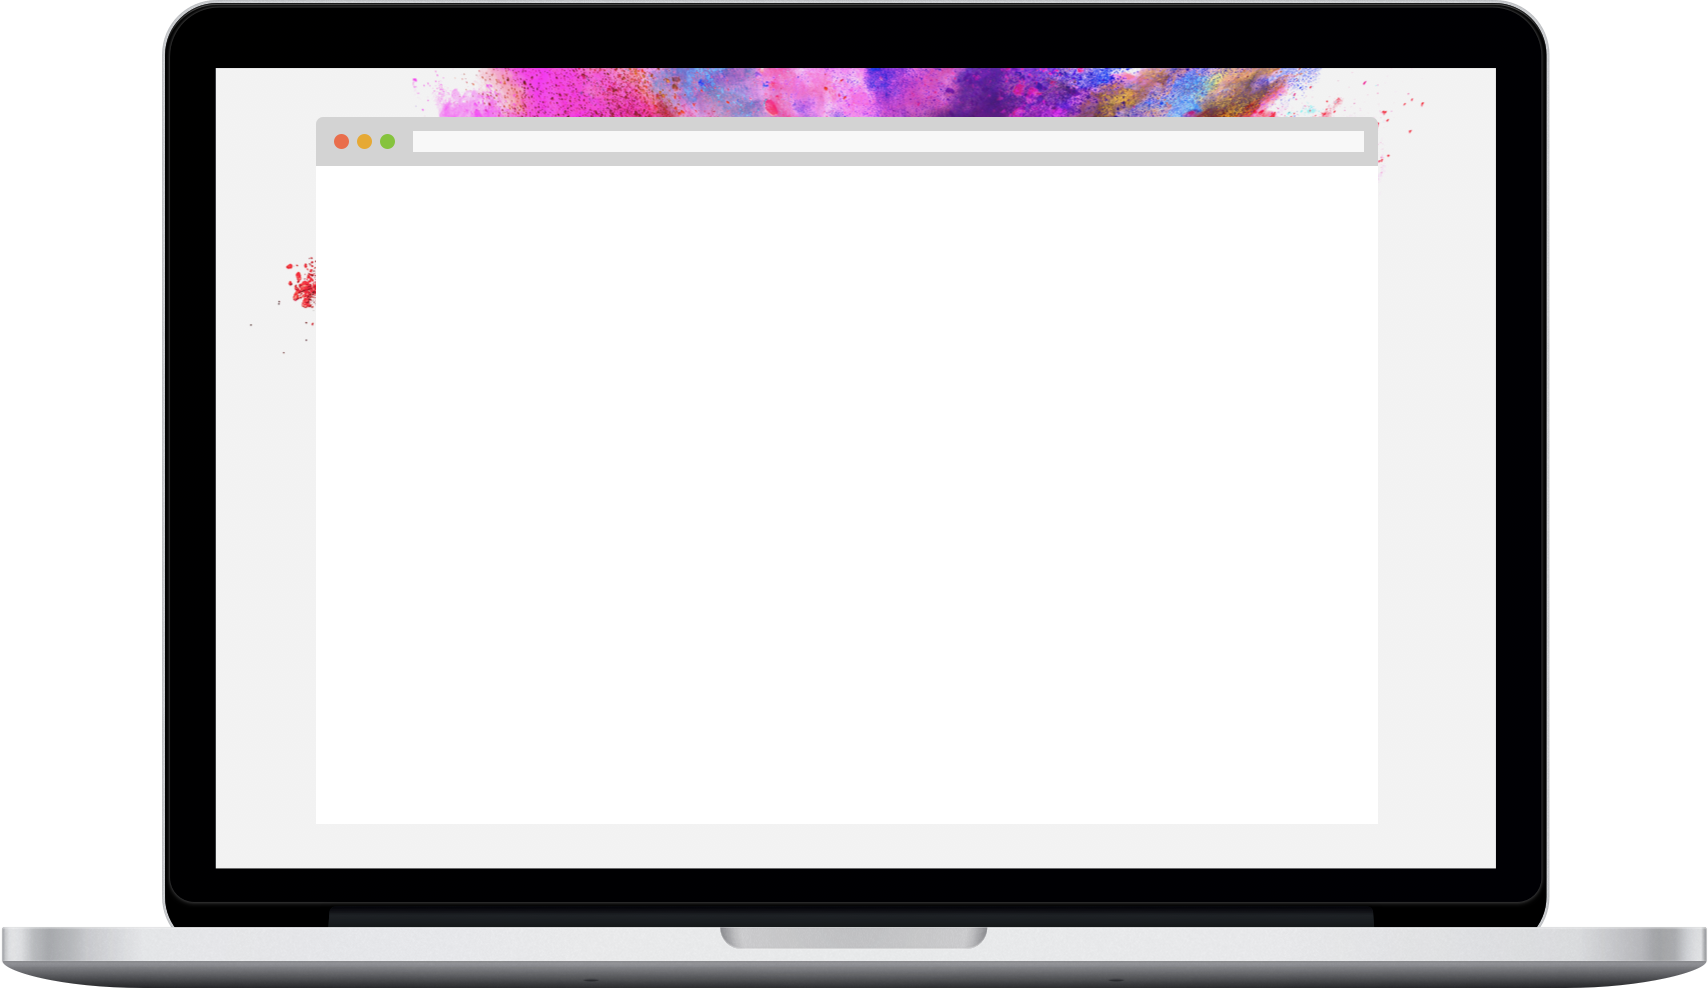
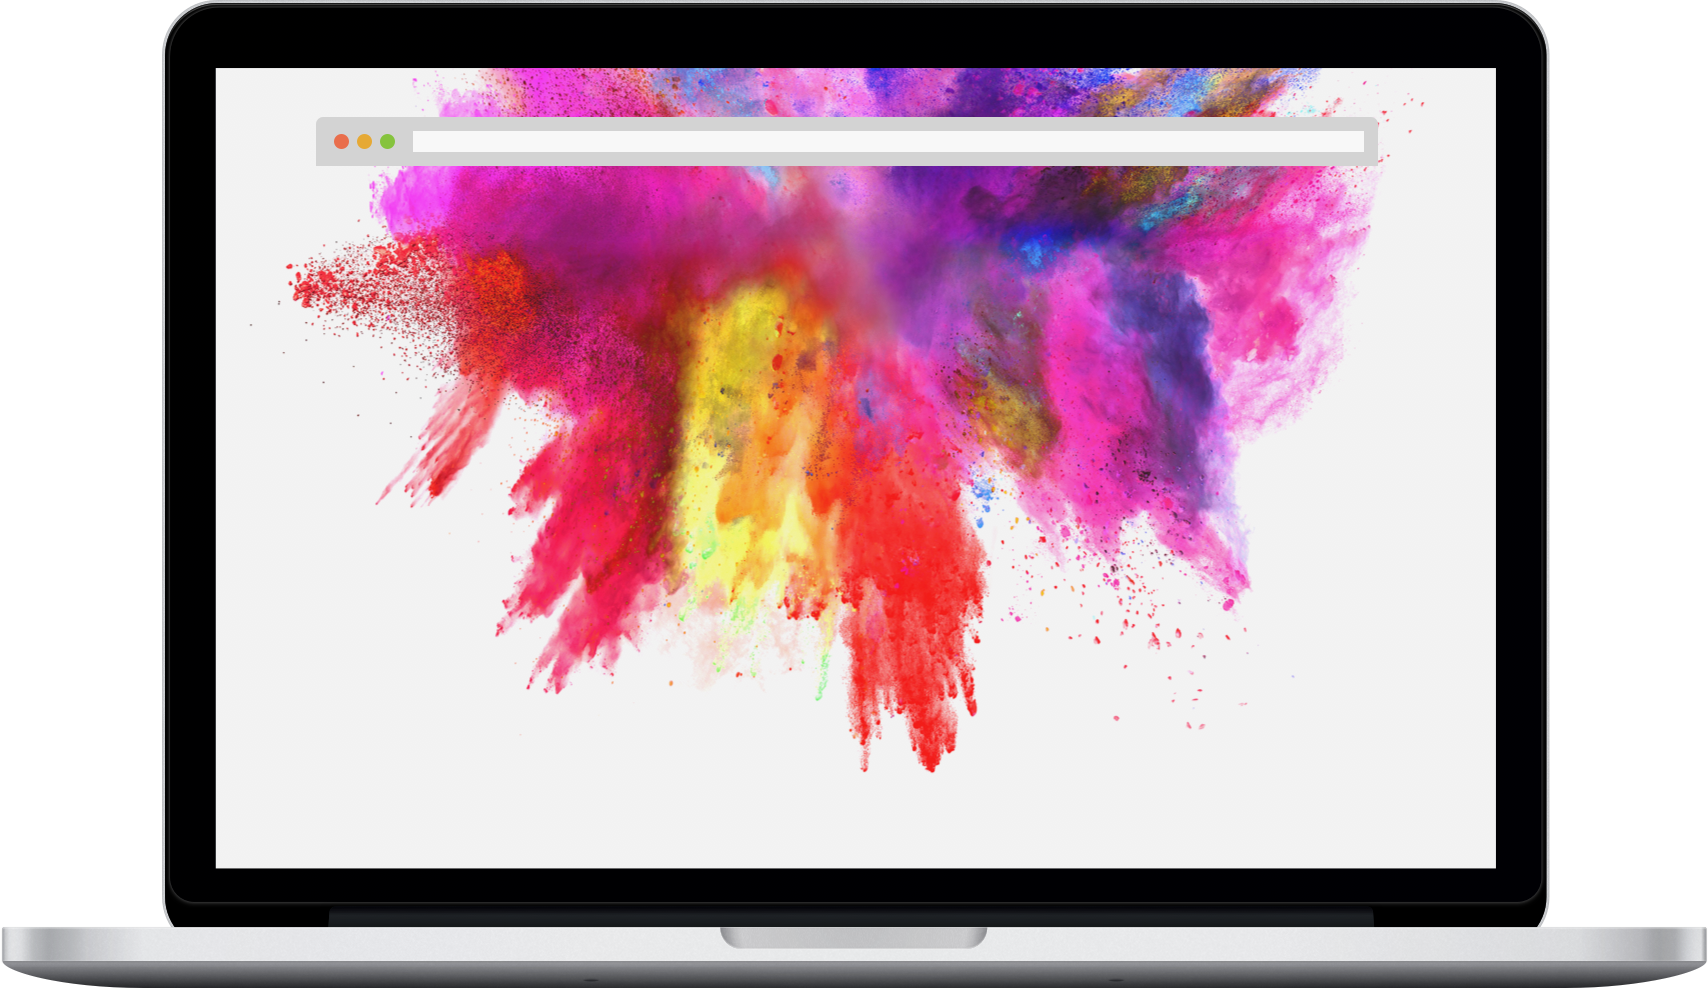
Improved screenshot generation script by adding mask

Changed region(s): [[0.1862, 0.1518, 0.8068, 0.7895]]

diff --git a/tools/html-screenshot-generator/generate.py b/tools/html-screenshot-generator/generate.py
@@ -9,21 +9,24 @@ Requirements: Pillow -> "sudo easy_install pip && sudo pip install pillow"
 
 from PIL import Image
 import os
+import pdb
 
 print("Creating screenshots...")
 base_image = Image.open("base.png")
+mask_image = Image.open("mask.png")
+canvas = Image.new('RGBA', base_image.size)
 
 screenshot_dir = os.path.join(os.getcwd(), 'screenshots')
 result_dir = os.path.join(os.getcwd(), 'results')
 screenshots = [f for f in os.listdir(screenshot_dir) if os.path.isfile(os.path.join(screenshot_dir, f))]
 for file in screenshots:
-	filename = os.path.splitext(file)[0]
-	result_filename = filename + '.png'
-	screenshot = Image.open(os.path.join(screenshot_dir, file))
-	resized_screenshot = screenshot.resize((1062, 658), Image.LANCZOS)
-
-	result = base_image.copy()
-	result.paste(resized_screenshot, (316, 166, base_image.width - 330, base_image.height - 164))
-	result.save(os.path.join(result_dir, result_filename), "PNG")
-	print("Saved framed screenshot %s" % result_filename)
-
+	if file.lower().endswith(('.png', '.jpg', '.jpeg')):
+		filename = os.path.splitext(file)[0]
+		result_filename = filename + '.png'
+		screenshot = Image.open(os.path.join(screenshot_dir, file))
+		resized_screenshot = screenshot.resize((1062, 658), Image.LANCZOS)
+		screenshot_on_canvas = canvas.copy()
+		screenshot_on_canvas.paste(resized_screenshot, (316, 166, base_image.width - 330, base_image.height - 164))
+		result = Image.composite(screenshot_on_canvas, base_image, mask_image)
+		result.save(os.path.join(result_dir, result_filename), "PNG")
+		print("Saved framed screenshot %s" % result_filename)
